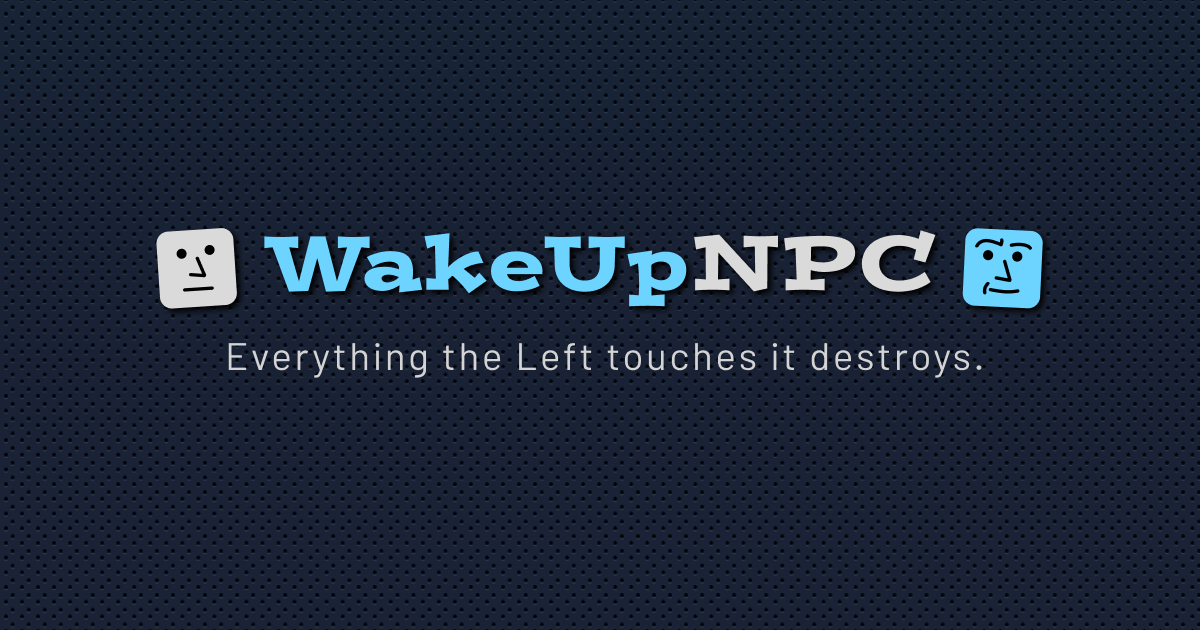
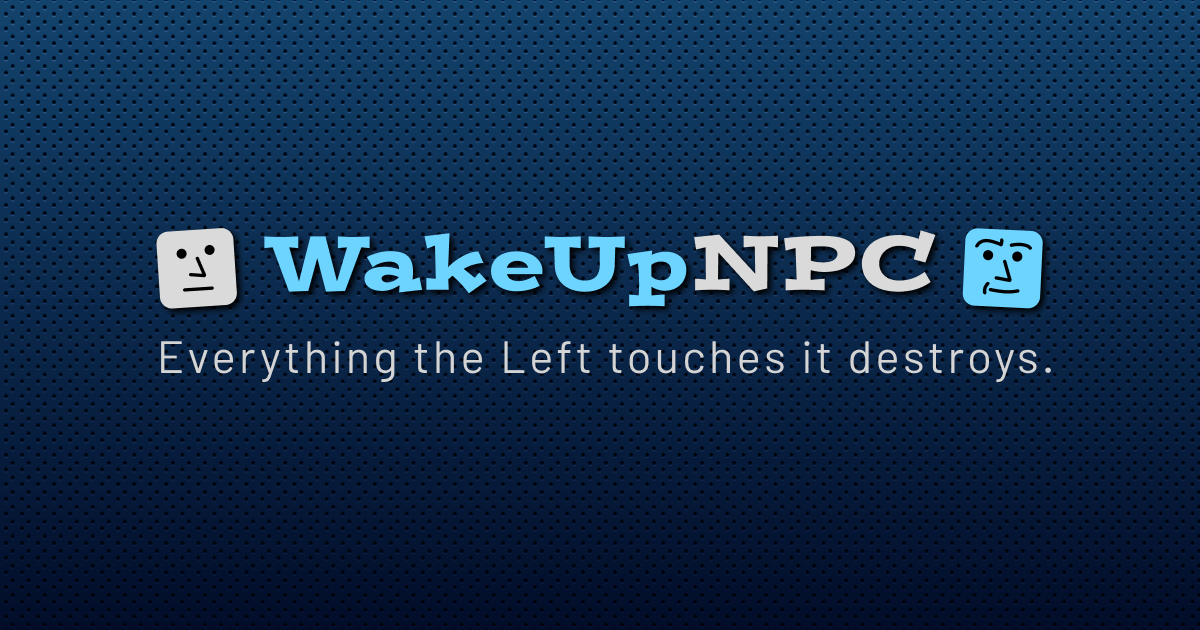
public/text-bg-1200x630.png

diff --git a/nuxt.config.ts b/nuxt.config.ts
@@ -68,10 +68,10 @@ export default defineNuxtConfig({
         { property: 'og:site_name', content: 'WakeUpNPC' },
         {
           property: 'og:image',
-          content: 'https://www.wakeupnpc.com/text-bg-1200x520.png',
+          content: 'https://www.wakeupnpc.com/text-bg-1200x630.png',
         },
         { property: 'og:image:width', content: '1200' },
-        { property: 'og:image:height', content: '520' },
+        { property: 'og:image:height', content: '630' },
         { property: 'og:image:type', content: 'image/png' },
 
         // Twitter
@@ -87,7 +87,7 @@ export default defineNuxtConfig({
         },
         {
           name: 'twitter:image',
-          content: 'https://www.wakeupnpc.com/text-bg-1200x520.png',
+          content: 'https://www.wakeupnpc.com/text-bg-1200x630.png',
         },
 
         // Additional SEO
